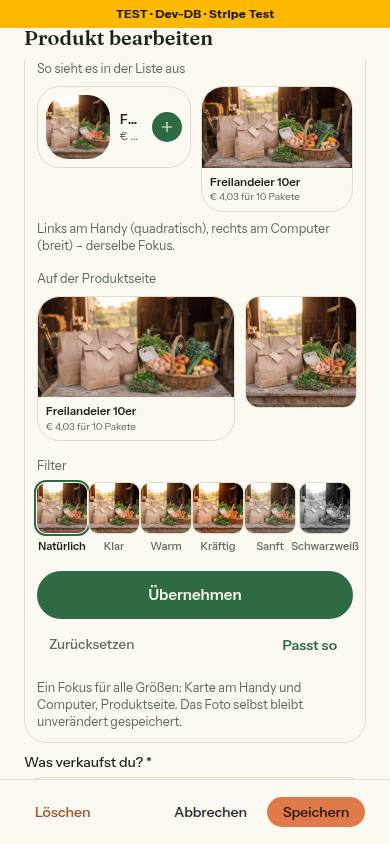
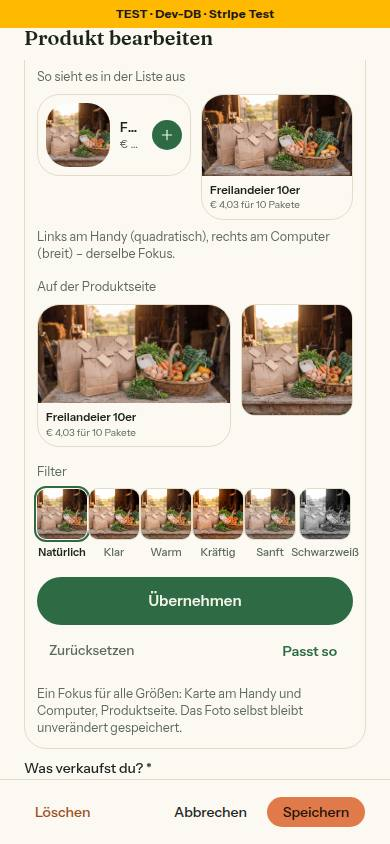
fix: Nr. 98 Runde 2 – Vorschau-Reihe der Produktseite passt am Handy (375 px)
Der Handy-Rahmen „Auf der Produktseite“ im Produktdialog hat keine feste
Breite mehr und teilt sich den Platz mit dem Computer-Rahmen (110 px); vorher
lief die Reihe mit 196 + 110 px bei 375 px über den Dialog hinaus. Test über
den Syntaxbaum: keine Vorschau-Reihe breiter als der Platz bei 375 px.
Bericht: Testschritte auf „Übernehmen“ und „Passt so“, Abschnitt Runde 2.

Claude-Session: https://claude.ai/code/session_016mcnK6M2any3pAayV5rccV

Changed region(s): [[0.0615, 0.0924, 0.9231, 0.9242], [0.0923, 0.0616, 0.4923, 0.2156]]

diff --git a/tests/bild-ausschnitt-anzeige.test.ts b/tests/bild-ausschnitt-anzeige.test.ts
@@ -15,6 +15,8 @@
  *    seinem Filter, ohne Fokus und Zoom (Nr. 98, Runde 1).
  *  - Alle vier Upload-Stellen (Logo, Galerie, Produktdialog, Beitrag) öffnen
  *    den Baustein nach dem Upload mit „Passt so“, das Titelbild nicht.
+ *  - Die Vorschau-Paare im Produktdialog passen am Handy (375 px) in die
+ *    Breite: kein waagrechtes Scrollen (Nr. 98, Runde 2).
  *  - Wache: Der Screenshot unter „Problem melden“ (Zweck meldung) und die
  *    Rohfoto-Stellen (Warenkorb, Kasse, E-Mails, Teilen-Bild) binden weder den
  *    Baustein noch den Stil ein. Gegenprobe: Dieselbe Suche findet beide in
@@ -300,5 +302,60 @@ describe('Nach dem Upload — „Passt so“ an allen vier Upload-Stellen, nicht
     const titelbild = aufrufe('src/components/mein-hof/bild-bausteine.tsx').filter((aufruf) => aufruf.includes('mitDarstellung'))
     expect(titelbild).toHaveLength(1)
     expect(titelbild[0]).not.toContain('nachUpload')
+  })
+})
+
+describe('Vorschau-Paare im Produktdialog — passen am Handy (375 px) in die Breite', () => {
+  // Platz für eine Reihe bei 375 px: Körper des Dialogs px-6 (2 × 24) und Rahmen
+  // des Bausteins p-3 mit Linie (2 × 12 + 2 × 1) — bei 390 px gemessen 316 px.
+  const PLATZ_375 = 375 - 48 - 26
+  // gap-2.5 zwischen den Rahmen einer Reihe.
+  const ABSTAND = 10
+  // So viel behält ein Rahmen ohne feste Breite mindestens, sonst ist er nicht mehr lesbar.
+  const GETEILT_MINDESTENS = 96
+
+  /** Je Vorschau-Reihe die festen Breiten (undefined = teilt sich den Platz) — aus dem Syntaxbaum. */
+  const reihen = (): (number | undefined)[][] => {
+    const pfad = 'src/components/products/product-dialog.tsx'
+    const baum = ts.createSourceFile(pfad, quelle(pfad), ts.ScriptTarget.Latest, true, ts.ScriptKind.TSX)
+    const breite = (objekt: ts.ObjectLiteralExpression): number | undefined => {
+      const eigenschaft = objekt.properties.find(
+        (e): e is ts.PropertyAssignment => ts.isPropertyAssignment(e) && e.name.getText(baum) === 'breite',
+      )
+      if (!eigenschaft) return undefined
+      if (!ts.isNumericLiteral(eigenschaft.initializer)) throw new Error('breite ist keine Zahl')
+      return Number(eigenschaft.initializer.text)
+    }
+    let liste: ts.ArrayLiteralExpression | undefined
+    const besuche = (knoten: ts.Node): void => {
+      if (ts.isVariableDeclaration(knoten) && knoten.name.getText(baum) === 'vorschauen' && knoten.initializer && ts.isArrayLiteralExpression(knoten.initializer)) {
+        liste = knoten.initializer
+      }
+      ts.forEachChild(knoten, besuche)
+    }
+    besuche(baum)
+    if (!liste) throw new Error('Keine Vorschau-Liste im Produktdialog')
+    return liste.elements.filter(ts.isObjectLiteralExpression).map((vorschau) => {
+      const daneben = vorschau.properties.find(
+        (e): e is ts.PropertyAssignment => ts.isPropertyAssignment(e) && e.name.getText(baum) === 'daneben',
+      )
+      const partner =
+        daneben && ts.isArrayLiteralExpression(daneben.initializer) ? daneben.initializer.elements.filter(ts.isObjectLiteralExpression) : []
+      return [vorschau, ...partner].map(breite)
+    })
+  }
+  const mindestBreite = (reihe: (number | undefined)[]): number =>
+    reihe.reduce<number>((summe, b) => summe + (b ?? GETEILT_MINDESTENS), 0) + ABSTAND * (reihe.length - 1)
+
+  it('beide Titel stehen als Paar da — „In der Liste“ und „Auf der Produktseite“', () => {
+    expect(reihen().map((r) => r.length)).toEqual([2, 2])
+  })
+
+  it('keine Reihe ist breiter als der Platz bei 375 px', () => {
+    for (const reihe of reihen()) expect(mindestBreite(reihe)).toBeLessThanOrEqual(PLATZ_375)
+  })
+
+  it('Gegenprobe: zwei feste Rahmen wie 196 + 110 px schlügen an', () => {
+    expect(mindestBreite([196, 110])).toBeGreaterThan(PLATZ_375)
   })
 })

diff --git a/src/components/products/product-dialog.tsx b/src/components/products/product-dialog.tsx
@@ -2114,7 +2114,8 @@ function ProduktfotoAusschnitt({
     {
       titel: BILD_RAHMEN_TEXT.produkt.seite,
       verhaeltnis: PRODUKT_VORSCHAU_SEITE_HANDY,
-      breite: 196,
+      // Ohne feste Breite: Das Handy teilt sich den Platz mit dem Computer (110 px),
+      // sonst liefe die Reihe am Handy (375 px) über den Dialog hinaus.
       umgebung: karte,
       daneben: [
         {

diff --git a/docs/nachtlauf/berichte/98.md b/docs/nachtlauf/berichte/98.md
@@ -11,7 +11,7 @@
 Wiederverwendet: `BildAusschnitt`, `bildStil`, `leseAusschnitt`, `AUSSCHNITT_STANDARD`, `speichereBildAusschnittAction`, `revalidiereProdukte`, `useImageUpload`, `FOKUS_RAHMEN`. Neu, weil: Rahmen und Texte je Zweck hatten keine Quelle (BAUSTEINE: Logo, Produktfoto, Galerie, Beitrag).
 
 ## Annahmen
-- Produktdialog: „Speichern“ im Baustein übernimmt die Wahl, geschrieben wird sie mit dem Produkt („Abbrechen“ des Dialogs verwirft alles); ein neues Foto schreibt immer (alter Ausschnitt gehört zum alten Foto).
+- Produktdialog: „Übernehmen“ im Baustein übernimmt die Wahl, geschrieben wird sie mit dem Produkt („Abbrechen“ des Dialogs verwirft alles); ein neues Foto schreibt immer (alter Ausschnitt gehört zum alten Foto).
 - „Passt so“ steht nach dem Upload statt „Abbrechen“, nur solange nichts geändert ist (danach verwürfe es die Wahl).
 - Galerie-Serie: Baustein öffnet einmal, für das erste Foto. Neues Logo: Ausschnitt sofort zurück (immer, ein Aufruf).
 - `product-grid.tsx` (Upload im Bearbeitungsmodus) unverändert: kein Aufrufer mit `ownerMode` (toter Pfad). `image-upload.tsx` unverändert: Öffnen macht jeder Aufrufer nach seinem Speichern.
@@ -21,10 +21,10 @@ Wiederverwendet: `BildAusschnitt`, `bildStil`, `leseAusschnitt`, `AUSSCHNITT_STA
 - Das kleine Logo in der Titelbild-Vorschau von Mein Hof (`BrowserVorschau` im TitelbildBaustein, Grenze 97) ohne Ausschnitt: `AbschnittHof` trägt `logoAusschnitt` nicht, das Durchreichen braucht `app/(hof)/farm-page/page.tsx` (außerhalb der Grenze). `BILD_AUSSCHNITT_TEXT.nochNicht` (Datei von 97) ohne Verwendung.
 
 ## Wie der Mensch es testet
-1. /products → Produkt bearbeiten → Foto wählen: Baustein öffnet im Fotofeld; Zoom 140 %, „Warm“, Speichern, Produkt speichern. Erwartung: Karte auf `/<slug>`, Produktseite, /hoefe und /products im Ausschnitt mit Filter; Warenkorb und Kasse Rohfoto.
+1. /products → Produkt bearbeiten → Foto wählen: Baustein öffnet im Fotofeld; Zoom 140 %, „Warm“, „Übernehmen“, Produkt speichern. Erwartung: Karte auf `/<slug>`, Produktseite, /hoefe und /products im Ausschnitt mit Filter; Warenkorb und Kasse Rohfoto.
 2. /farm-page › Logo hochladen: Baustein ohne Filterkacheln, drei runde Vorschauen; Speichern → Hofseite (96 px), Kopf von Mein Hof, Seitenleiste.
 3. /farm-page › Fotos hinzufügen: Baustein (Kachel), Speichern → Kachel der Hofseite im Ausschnitt; Tipp → Bildansicht ganz.
-4. /status/new mit Foto: einmal mit Ausschnitt (füllt 3 : 2), einmal „Abbrechen“ (ganz wie bisher). Am Handy (375 px) dasselbe; Tab auf den Rahmen, Pfeiltasten.
+4. /status/new mit Foto: einmal mit Ausschnitt (füllt 3 : 2), einmal „Passt so“ (Beitrag steht danach ganz wie bisher). Am Handy (375 px) dasselbe; Tab auf den Rahmen, Pfeiltasten.
 
 ## Angepasste .md
 `docs/ai/DESIGN_SYSTEM.md` (Bild-Baustein › Rahmen je Zweck), `DEVELOPMENT.md`, `docs/ai/BAUSTEINE.md` (erzeugt).
@@ -42,7 +42,7 @@ Testdaten (innbogenhof): Freilandeier `imageUrl` → Kopie von `public/landing/r
 - Produktfoto im Blatt (390, gleich nach der Fotowahl mit „Passt so“): ![oben](bilder/98/produktfoto-blatt-390-hell.jpg) ![unten](bilder/98/produktfoto-blatt-390-hell-unten.jpg) — Abweichungen, je mit Grund: (a) Baustein im Fotofeld des Produktdialogs statt eigenem Blatt — der Dialog ist am Handy schon das Blatt (Vollbild), ein zweites Blatt darüber verdeckte Name und Preis, die die Vorschau zeigt; (b) „Foto ersetzen“ steht am Foto vor dem Baustein — es gehört zum Fotofeld des Dialogs, nicht zum Baustein, den auch Logo, Galerie und Beitrag nutzen; (c) Hauptrahmen 80 % hoch auf der 2 : 1-Bühne (`rahmenPlatz`, Nr. 97, Titelbild unverändert); (d) Knopf „Übernehmen“ statt „Speichern“ — darunter steht das „Speichern“ des Dialogs, das erst schreibt; (e) im Dialog 316 px statt 358 px breit, darum kürzt die Handy-Zeile der Liste den Namen.
 - Produktkarte: ![1440](bilder/98/produktkarte-1440-hell.jpg) ![390](bilder/98/produktkarte-390-hell.jpg) · Produktseite: ![1440](bilder/98/produktseite-1440-hell.jpg) ![390](bilder/98/produktseite-390-hell.jpg)
 - Logo-Baustein ohne Filter (390, über „Ausschnitt anpassen“ — darum „Abbrechen“; ein echter Upload braucht Blob): ![390](bilder/98/logo-baustein-390-hell.jpg) — runder Hauptrahmen, 96 / 72 / 40 in einer Reihe; Abweichung: Name „Logo“ oben mittig im Kreis (die Ecke oben links läge außerhalb).
-- Axe (wcag2a/aa/21a/21aa): Logo-Baustein 390, Produktdialog mit Baustein 390 hell und dunkel, Hofseite und Produktseite 390/1440 — 0 Verstöße (unklar nur Fokuswächter von Base UI und Kontrast über Fotos, Bestand). Neue Tippflächen ≥ 44 px; kein waagrechtes Scrollen bei 390.
+- Axe (wcag2a/aa/21a/21aa): Logo-Baustein 390, Produktdialog mit Baustein 390 hell und dunkel, Hofseite und Produktseite 390/1440 — 0 Verstöße (unklar nur Fokuswächter von Base UI und Kontrast über Fotos, Bestand). Neue Tippflächen ≥ 44 px; kein waagrechtes Scrollen bei 390 und 375 (Runde 2).
 
 ## Nachbesserung Runde 1
 - Blocker: `abschnitt-inhalt.tsx` reicht `logoAusschnitt`; `bildansicht.tsx` groß mit `nurFilterStil` (object-contain bleibt); `lebensmittel-vorschau.tsx` reicht `ausschnitt` an die Karte (Dialog nur mit Foto); `bild-ausschnitt.tsx`: `rahmen.rund`, `daneben`/`mittig` (Reihe unter einem Titel), `nachUpload` („Passt so“ → Standard → `null`), `speichernText`; Titelbild unverändert (Tests 97 grün). Aufrufer Logo (rund, eine Reihe), Galerie, Produktdialog (zwei Paare, „Übernehmen“), Beitrag setzen `nachUpload`.
@@ -50,3 +50,7 @@ Testdaten (innbogenhof): Freilandeier `imageUrl` → Kopie von `public/landing/r
 - Dazu: `ausschnittOderNull` (`bild-rahmen.ts`) ist die eine Regel „Mitte, 100 %, Natürlich = `null`“ — Aktion, Beitrag und Produktdialog nehmen sie; vorher stand ein Beitrag nach „Speichern“ ohne Änderung im Formular füllend, auf der Hofseite ganz.
 - Tests (erst rot): Baustein (rund, Paar, „Passt so“ und zurück zu „Abbrechen“), Anzeige (Käufer-Vorschau, Bildansicht, `nachUpload` an vier Stellen per Syntaxbaum mit Gegenprobe Titelbild), Mein Hof › Logo nach dem Neuladen, Cache-Zeile im Logo-Fall. Axe Produktdialog und Logo-Baustein 390 hell: 0 Verstöße; Tippflächen „Passt so“/„Zurücksetzen“ 44 px, „Übernehmen“ 48 px. Testdaten wie oben gesetzt und danach auf NULL zurück (verglichen), `public/_98/` gelöscht.
 
+## Nachbesserung Runde 2
+- Blocker: Reihe „Auf der Produktseite“ im Produktdialog war fest 196 + 10 + 110 px, lief bei 375 px über (Platz 301 px). `product-dialog.tsx`: Handy-Rahmen ohne `breite` (teilt sich den Platz wie das Listen-Paar), Computer bleibt 110 px. Test (erst rot: 316 > 301): `bild-ausschnitt-anzeige.test.ts` liest die Breiten je Reihe aus dem Syntaxbaum, keine Reihe breiter als der Platz bei 375 px, Gegenprobe 196 + 110.
+- Gemessen (agent-browser, Produktdialog nach der Fotowahl, nicht gespeichert): 375 px — Reihe 301 px, Handy 179 + Computer 112 (mit Linie), Körper `scrollWidth` 375 = `clientWidth`; 390 px — Handy 194 + 112, 390 = 390. Bild neu: `produktfoto-blatt-390-hell-unten.jpg`. Test-DB unverändert (Produkte von innbogenhof `imageUrl`/`bildAusschnitt` NULL, verglichen).
+- Sollte: Testschritte und Annahme auf „Übernehmen“ bzw. „Passt so“; DESIGN_SYSTEM (Produktfoto) um die Regel „Handy teilt sich den Platz“.

diff --git a/docs/ai/DESIGN_SYSTEM.md b/docs/ai/DESIGN_SYSTEM.md
@@ -632,7 +632,7 @@ Umgesetzt in `src/components/shells/` (KundeShell, KundeFokusShell, HofShell, Ad
 - **Nicht:** Teilen-Bild, Warenkorb, Kasse, E-Mails und der Screenshot unter „Problem melden“ zeigen das Rohfoto — dort weder `bildStil` noch Baustein.
 - **Rahmen je Zweck (seit Nr. 98, `src/lib/bild-rahmen.ts`):** derselbe Baustein, nur andere Rahmen und Vorschau; das Titelbild hat seine in `src/lib/titelbild.ts`.
   - **Logo** (`Farm.logoAusschnitt`): runder Hauptrahmen 1 : 1 (`rahmen.rund`: Kreis, Kontur rund, Name oben mittig), Vorschau rund 96 / 72 / 40 px in einer Reihe (Hofseite, Mein Hof, Karten und Seitenleiste), **ohne Filter** (`mitFilter={false}`; die Aktion nimmt nur „Natürlich“). Überall, wo das Logo rund steht (Hofseite, Kopf von Mein Hof, Seitenleiste, Karussell auf /hoefe, Mein Hof › Logo), mit `bildStil(…, { filter: false })` in einem runden Kasten mit `overflow-hidden`.
-  - **Produktfoto** (`Product.bildAusschnitt`): Hauptrahmen wie die Karte am Computer (260 : 140), Vorschau als zwei Paare: „So sieht es in der Liste aus“ (Handy 64 × 64 | Computer) und „Auf der Produktseite“ (Handy 390 : 200 | Computer 300 × 300), mit Filter. Nur am echten Foto (`imageUrl`), nie an der Kategorie-Illustration. Ausverkauft, „derzeit aus“ oder gedämpft: `bildStil(…, { filter: false })` — ein Inline-Filter überschriebe sonst die Klasse `grayscale`. Angezeigt in Produktkarte, Produktseite, Treffern und Zeilen auf /hoefe und in /products. Im Produktdialog öffnet der Baustein im Fotofeld; sein Knopf heißt dort „Übernehmen“ (`speichernText`) — er übernimmt die Wahl, geschrieben wird sie nach dem Produkt mit „Speichern“ des Dialogs. Die Käufer-Vorschau darunter zeigt dieselbe Wahl.
+  - **Produktfoto** (`Product.bildAusschnitt`): Hauptrahmen wie die Karte am Computer (260 : 140), Vorschau als zwei Paare: „So sieht es in der Liste aus“ (Handy 64 × 64 | Computer) und „Auf der Produktseite“ (Handy 390 : 200 | Computer 300 × 300), mit Filter. In jeder Reihe teilt sich das Handy den Platz (ohne feste `breite`), nur der Computer-Rahmen hat eine; eine Reihe passt so bei 375 px in den Dialog (301 px, `tests/bild-ausschnitt-anzeige.test.ts`). Nur am echten Foto (`imageUrl`), nie an der Kategorie-Illustration. Ausverkauft, „derzeit aus“ oder gedämpft: `bildStil(…, { filter: false })` — ein Inline-Filter überschriebe sonst die Klasse `grayscale`. Angezeigt in Produktkarte, Produktseite, Treffern und Zeilen auf /hoefe und in /products. Im Produktdialog öffnet der Baustein im Fotofeld; sein Knopf heißt dort „Übernehmen“ (`speichernText`) — er übernimmt die Wahl, geschrieben wird sie nach dem Produkt mit „Speichern“ des Dialogs. Die Käufer-Vorschau darunter zeigt dieselbe Wahl.
   - **Galerie** (`FarmPhoto.ausschnitt`): Hauptrahmen Kachel 260 : 140, Vorschau Kachel am Handy 160 : 120. Die Bildansicht zeigt das ganze Foto mit Filter, ohne Beschnitt (`object-contain` + `nurFilterStil`, ohne Fokus und Zoom). In Mein Hof ist das Vorschaubild jedes Fotos der Knopf „Ausschnitt anpassen“.
   - **Beitragsfoto** (`StatusPost.fotoAusschnitt`): Hauptrahmen 3 : 2. Mit Ausschnitt `object-cover` + `bildStil`, ohne bleibt `object-contain` (das ganze Foto) wie vorher. Gewählt vor dem Veröffentlichen, geschrieben danach.
   - **Nach dem Upload** öffnet der Baustein einmal von selbst mit Standardwerten (in einer Galerie-Serie für das erste Foto) — „Passt so“ speichert `null` (= wie heute), niemand wird gezwungen. „Passt so“ steht statt „Abbrechen“ (`nachUpload`), solange nichts geändert ist; nach einer Änderung wieder „Abbrechen“. Über „Ausschnitt anpassen“ geöffnet gibt es kein „Passt so“. Mitte, 100 %, Natürlich ist immer `null` (`ausschnittOderNull`, `src/lib/bild-rahmen.ts`) — die Aktion speichert so, Beitrag und Produktdialog zeigen so. Ein neues Foto beginnt ohne Ausschnitt: Der alte gehörte zum alten Foto. Scheitert der Ausschnitt nach dem gespeicherten Produkt bzw. Beitrag, bleibt beides stehen — ein Satz sagt es.
